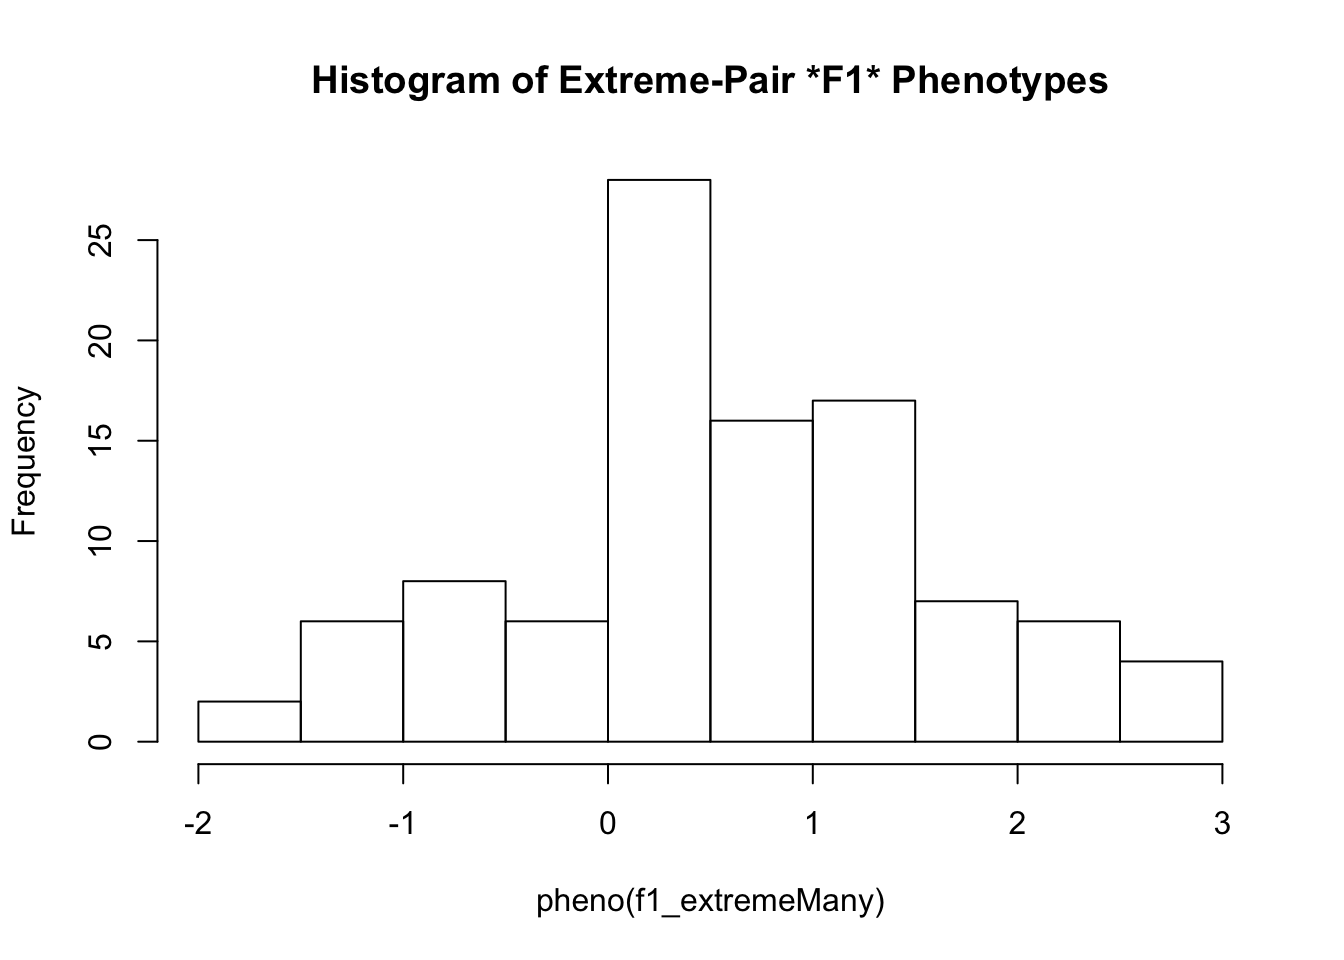
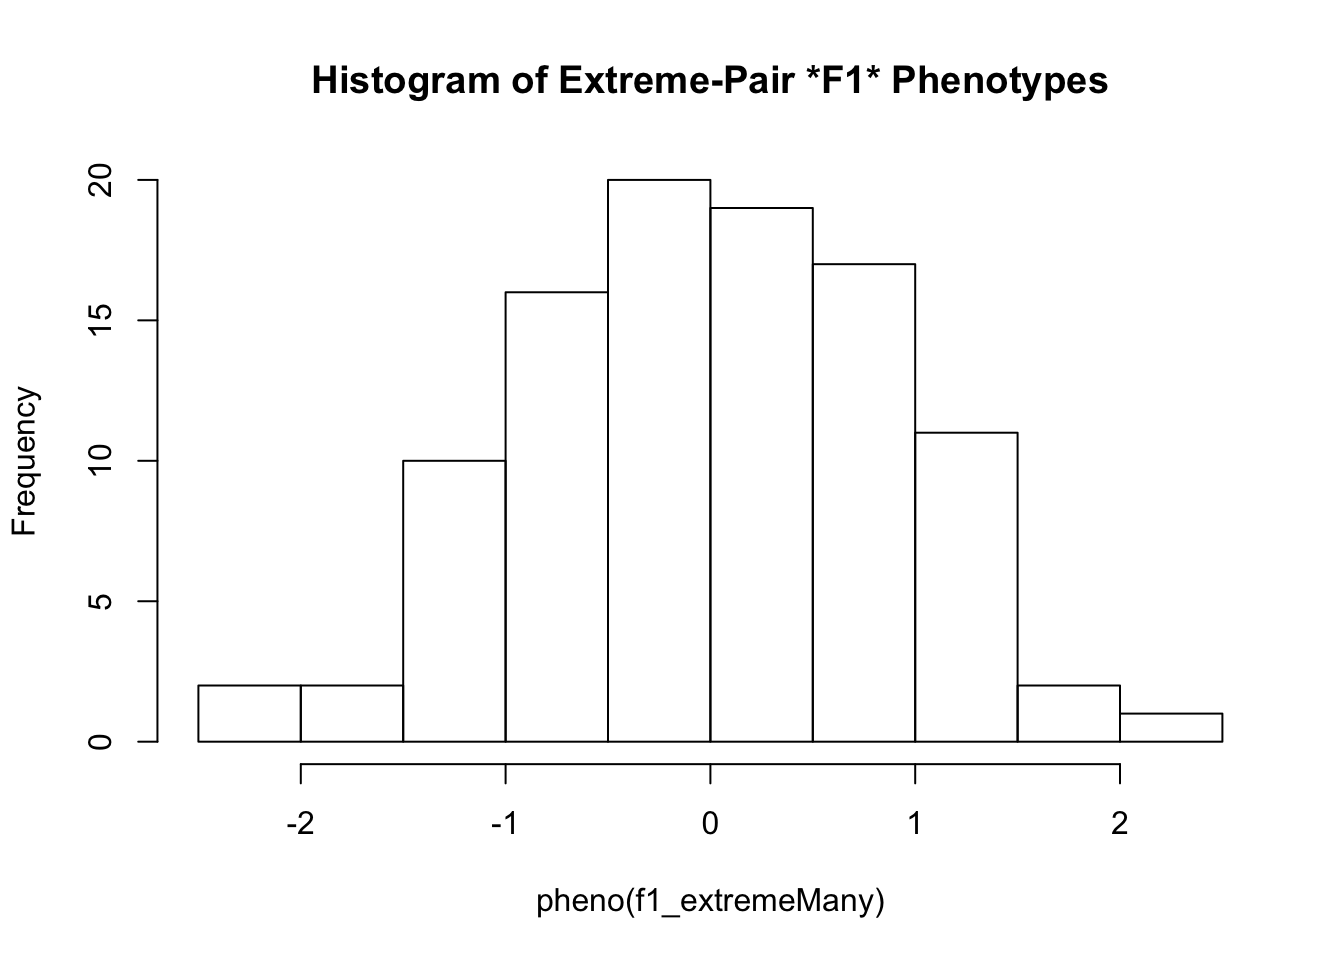
Build site.

diff --git a/docs/Lab1_ProgrammingAlphaSimR.html b/docs/Lab1_ProgrammingAlphaSimR.html
@@ -506,10 +506,10 @@ This reproducible <a href="http://rmarkdown.rstudio.com">R Markdown</a> analysis
 <div class="panel panel-default">
 <div class="panel-heading">
 <p class="panel-title">
-<a data-toggle="collapse" data-parent="#workflowr-checks" href="#strongRepositoryversionstrongahrefhttpsgithubcomjeanlucjLab17170treecb851516e6e309e7563b5e44db501f196ad33163targetblankcb85151a"> <span class="glyphicon glyphicon-ok text-success" aria-hidden="true"></span> <strong>Repository version:</strong> <a href="https://github.com/jeanlucj/Lab1_7170/tree/cb851516e6e309e7563b5e44db501f196ad33163" target="_blank">cb85151</a> </a>
+<a data-toggle="collapse" data-parent="#workflowr-checks" href="#strongRepositoryversionstrongahrefhttpsgithubcomjeanlucjLab17170tree9d95adde55e31a5804fe2f893de73e1dae128329targetblank9d95adda"> <span class="glyphicon glyphicon-ok text-success" aria-hidden="true"></span> <strong>Repository version:</strong> <a href="https://github.com/jeanlucj/Lab1_7170/tree/9d95adde55e31a5804fe2f893de73e1dae128329" target="_blank">9d95add</a> </a>
 </p>
 </div>
[2 lines of base64/hex data omitted]
 <div class="panel-body">
 <p>
 Great! You are using Git for version control. Tracking code development and connecting the code version to the results is critical for reproducibility. The version displayed above was the version of the Git repository at the time these results were generated. <br><br> Note that you need to be careful to ensure that all relevant files for the analysis have been committed to Git prior to generating the results (you can use <code>wflow_publish</code> or <code>wflow_git_commit</code>). workflowr only checks the R Markdown file, but you know if there are other scripts or data files that it depends on. Below is the status of the Git repository when the results were generated:
@@ -558,6 +558,40 @@ Message
 </tr>
 </thead>
 <tbody>
+<tr>
+<td>
+Rmd
+</td>
+<td>
+<a href="https://github.com/jeanlucj/Lab1_7170/blob/9d95adde55e31a5804fe2f893de73e1dae128329/analysis/Lab1_ProgrammingAlphaSimR.Rmd" target="_blank">9d95add</a>
+</td>
+<td>
+jeanlucj
+</td>
+<td>
+2020-01-20
+</td>
+<td>
+Touch ups on the main document
+</td>
+</tr>
+<tr>
+<td>
+html
+</td>
+<td>
+<a href="https://rawcdn.githack.com/jeanlucj/Lab1_7170/602d7eb7d861d46218767fb5b678276a51545c4c/docs/Lab1_ProgrammingAlphaSimR.html" target="_blank">602d7eb</a>
+</td>
+<td>
+jeanlucj
+</td>
+<td>
+2020-01-20
+</td>
+<td>
+Build site.
+</td>
+</tr>
 <tr>
 <td>
 Rmd
@@ -620,7 +654,10 @@ pre code {
 </li>
 </ol>
 <ol style="list-style-type: lower-roman">
-<li>R markdown language. It allows you to mingle script with formatted text, with script outputs. Note that Python and c++ scripts can be incorporated into R markdown.<br />
+<li>R markdown language. It allows you to mingle script with formatted text, with script outputs. Note that Python and c++ scripts can be incorporated into R markdown. Help pages on rmarkdown:<br />
+<a href="https://rstudio.com/wp-content/uploads/2015/02/rmarkdown-cheatsheet.pdf">Cheat Sheet</a><br />
+<a href="https://rmarkdown.rstudio.com/authoring_basics.html">Authoring Basics</a><br />
+<a href="https://annakrystalli.me/rrresearch/05_literate-prog.html">In Literate Programming</a><br />
 </li>
 <li><code>workflowr</code> aims to make it easier to follow a coding workflow that will increase the communicability and reproducibility of your code, and constrain you somewhat to following that workflow. The package sets up a standard directory file structure and populates it with useful initial R markdown (.Rmd) files.<br />
 </li>
@@ -641,7 +678,9 @@ There <a href="https://cran.r-project.org/web/packages/workflowr/vignettes/wflow
 </li>
 </ol>
 <ol style="list-style-type: lower-roman">
-<li>Labs, including this one, will be coupled with homework. One possibility for homework will be to do it in a <code>workflowr</code>-created directory, and hand in that zipped directory, or, if you go further and create a website out of it, just send in the URL…</li>
+<li>Labs, including this one, will be coupled with homework. One possibility for homework will be to do it in a <code>workflowr</code>-created directory, and hand in that zipped directory, or, if you go further and create a webpage out of it, just send in the URL… If all is well, this lab has a webpage here:<br />
+<a href="https://jeanlucj.github.io/Lab1_7170/Lab1_ProgrammingAlphaSimR.html">Lab1 GitHub webpage</a><br />
+I am noting, however, that on github.io, it is not rendering the within-directory-linked figures.</li>
 </ol>
 </div>
 <div id="document-explanation" class="section level2">
@@ -774,7 +813,7 @@ str(founders)</code></pre>
   ..@ father : chr [1:100] &quot;0&quot; &quot;0&quot; &quot;0&quot; &quot;0&quot; ...
   ..@ gender : chr [1:100] &quot;&quot; &quot;&quot; &quot;&quot; &quot;&quot; ...
   ..@ nTraits: int 1
-  ..@ gv     : num [1:100, 1] -0.167 -0.324 -0.159 0.582 0.447 ...
+  ..@ gv     : num [1:100, 1] -0.918 1.018 0.176 0.517 0.25 ...
   ..@ pheno  : num [1:100, 1] NA NA NA NA NA NA NA NA NA NA ...
   ..@ ebv    : num[1:100, 0 ] 
   ..@ gxe    :List of 1
@@ -786,16 +825,16 @@ str(founders)</code></pre>
   ..@ ploidy : int 2
   ..@ nLoci  : int [1:10] 1000 1000 1000 1000 1000 1000 1000 1000 1000 1000
   ..@ geno   :List of 10
-  .. ..$ : raw [1:125, 1:2, 1:100] f8 3b 1d a0 ...
-  .. ..$ : raw [1:125, 1:2, 1:100] d9 25 20 42 ...
-  .. ..$ : raw [1:125, 1:2, 1:100] a4 a9 55 80 ...
-  .. ..$ : raw [1:125, 1:2, 1:100] 0f 31 72 40 ...
-  .. ..$ : raw [1:125, 1:2, 1:100] 40 40 30 d3 ...
-  .. ..$ : raw [1:125, 1:2, 1:100] 36 28 42 83 ...
-  .. ..$ : raw [1:125, 1:2, 1:100] 4d 68 bf f8 ...
-  .. ..$ : raw [1:125, 1:2, 1:100] 6a 26 e8 80 ...
-  .. ..$ : raw [1:125, 1:2, 1:100] 06 5c 8c 5e ...
-  .. ..$ : raw [1:125, 1:2, 1:100] 1d 3a 28 d9 ...
+  .. ..$ : raw [1:125, 1:2, 1:100] 10 c2 38 6a ...
+  .. ..$ : raw [1:125, 1:2, 1:100] 04 92 35 6f ...
+  .. ..$ : raw [1:125, 1:2, 1:100] 78 b4 0b d0 ...
+  .. ..$ : raw [1:125, 1:2, 1:100] 10 0e 25 80 ...
+  .. ..$ : raw [1:125, 1:2, 1:100] 5a e2 61 b9 ...
+  .. ..$ : raw [1:125, 1:2, 1:100] ca 03 64 00 ...
+  .. ..$ : raw [1:125, 1:2, 1:100] 01 19 85 07 ...
+  .. ..$ : raw [1:125, 1:2, 1:100] cd 7b ca 17 ...
+  .. ..$ : raw [1:125, 1:2, 1:100] c0 96 5d 03 ...
+  .. ..$ : raw [1:125, 1:2, 1:100] 10 48 32 1b ...
   .. ..- attr(*, &quot;dim&quot;)= int [1:2] 10 1</code></pre>
 </div>
 <div id="population-information" class="section level2">
@@ -806,7 +845,7 @@ str(founders)</code></pre>
 testID &lt;- test@id
 firstInd &lt;- test[order(testID)[1]]
 print(testID)</code></pre>
-<pre><code>[1] &quot;66&quot; &quot;96&quot; &quot;41&quot;</code></pre>
+<pre><code>[1] &quot;75&quot; &quot;8&quot;  &quot;30&quot;</code></pre>
 <pre class="r"><code>print(firstInd)</code></pre>
 <pre><code>An object of class &quot;Pop&quot; 
 Ploidy: 2 
@@ -815,7 +854,7 @@ Chromosomes: 10
 Loci: 10000 
 Traits: 1 </code></pre>
 <pre class="r"><code>print(firstInd@id)</code></pre>
-<pre><code>[1] &quot;41&quot;</code></pre>
+<pre><code>[1] &quot;30&quot;</code></pre>
 </div>
 <div id="outbreak-of-variation" class="section level2">
 <h2>Outbreak of variation</h2>
@@ -838,7 +877,7 @@ cat(&quot;Expected fraction heterozygous&quot;, 1 / 2^nGenSelf, &quot;\n&quot;,
     &quot;Observed fraction heterozygous&quot;, fracHet, &quot;+/-&quot;, 
     round(2*sqrt(fracHet*(1-fracHet)/(nFounders*nChr*nQTL)), 3), &quot;\n&quot;)</code></pre>
 <pre><code>Expected fraction heterozygous 0.0625 
- Observed fraction heterozygous 0.017 +/- 0.003 </code></pre>
+ Observed fraction heterozygous 0.0162 +/- 0.003 </code></pre>
 <blockquote>
 <p>What was wrong with my reasoning about the Expected fraction heterozygous?</p>
 </blockquote>
@@ -863,15 +902,89 @@ f1_extreme &lt;- makeCross(extremeInd, crossPlan)</code></pre>
 <pre class="r"><code>f2_average &lt;- self(f1_average, nProgeny=100)
 f2_average &lt;- setPheno(f2_average, varE=1)
 cat(&quot;Genotypic variance of F2 between average pair&quot;, round(varG(f2_average), 3))</code></pre>
-<pre><code>Genotypic variance of F2 between average pair 0.686</code></pre>
+<pre><code>Genotypic variance of F2 between average pair 0.436</code></pre>
 <pre class="r"><code>hist(pheno(f2_average), main=&quot;Histogram of Average-Pair F2 Phenotypes&quot;)</code></pre>
 <p><img src="figure/Lab1_ProgrammingAlphaSimR.Rmd/Make%20F2-1.png" width="672" style="display: block; margin: auto;" /></p>
+<p>
+<button type="button" class="btn btn-default btn-xs btn-workflowr btn-workflowr-fig" data-toggle="collapse" data-target="#fig-no-spaces-Make-F2-1">
+Past versions of “Make F2-1.png”
+</button>
+</p>
+<div id="fig-no-spaces-Make-F2-1" class="collapse">
+<div class="table-responsive">
+<table class="table table-condensed table-hover">
+<thead>
+<tr>
+<th>
+Version
+</th>
+<th>
+Author
+</th>
+<th>
+Date
+</th>
+</tr>
+</thead>
+<tbody>
+<tr>
+<td>
+<a href="https://github.com/jeanlucj/Lab1_7170/blob/602d7eb7d861d46218767fb5b678276a51545c4c/docs/figure/Lab1_ProgrammingAlphaSimR.Rmd/Make F2-1.png" target="_blank">602d7eb</a>
+</td>
+<td>
+jeanlucj
+</td>
+<td>
+2020-01-20
+</td>
+</tr>
+</tbody>
+</table>
+</div>
+</div>
 <pre class="r"><code>f2_extreme &lt;- self(f1_extreme, nProgeny=100)
 f2_extreme &lt;- setPheno(f2_extreme, varE=1)
 cat(&quot;Genotypic variance of F2 between extreme pair&quot;, round(varG(f2_extreme), 3))</code></pre>
-<pre><code>Genotypic variance of F2 between extreme pair 0.798</code></pre>
+<pre><code>Genotypic variance of F2 between extreme pair 0.458</code></pre>
 <pre class="r"><code>hist(pheno(f2_extreme), main=&quot;Histogram of Extreme-Pair F2 Phenotypes&quot;)</code></pre>
 <p><img src="figure/Lab1_ProgrammingAlphaSimR.Rmd/Make%20F2-2.png" width="672" style="display: block; margin: auto;" /></p>
+<p>
+<button type="button" class="btn btn-default btn-xs btn-workflowr btn-workflowr-fig" data-toggle="collapse" data-target="#fig-no-spaces-Make-F2-2">
+Past versions of “Make F2-2.png”
+</button>
+</p>
+<div id="fig-no-spaces-Make-F2-2" class="collapse">
+<div class="table-responsive">
+<table class="table table-condensed table-hover">
+<thead>
+<tr>
+<th>
+Version
+</th>
+<th>
+Author
+</th>
+<th>
+Date
+</th>
+</tr>
+</thead>
+<tbody>
+<tr>
+<td>
+<a href="https://github.com/jeanlucj/Lab1_7170/blob/602d7eb7d861d46218767fb5b678276a51545c4c/docs/figure/Lab1_ProgrammingAlphaSimR.Rmd/Make F2-2.png" target="_blank">602d7eb</a>
+</td>
+<td>
+jeanlucj
+</td>
+<td>
+2020-01-20
+</td>
+</tr>
+</tbody>
+</table>
+</div>
+</div>
 </div>
 <div id="observe-f1-phenotypic-variance" class="section level2">
 <h2>Observe F1 phenotypic variance</h2>
@@ -880,9 +993,46 @@ cat(&quot;Genotypic variance of F2 between extreme pair&quot;, round(varG(f2_ext
 f1_extremeMany &lt;- makeCross(extremeInd, crossPlan)
 f1_extremeMany &lt;- setPheno(f1_extremeMany, varE=1)
 cat(&quot;Genotypic variance of F1 between extreme pair&quot;, round(varG(f1_extremeMany), 3))</code></pre>
-<pre><code>Genotypic variance of F1 between extreme pair 0.021</code></pre>
+<pre><code>Genotypic variance of F1 between extreme pair 0.03</code></pre>
 <pre class="r"><code>hist(pheno(f1_extremeMany), main=&quot;Histogram of Extreme-Pair *F1* Phenotypes&quot;)</code></pre>
 <p><img src="figure/Lab1_ProgrammingAlphaSimR.Rmd/Make%20many%20hybrids-1.png" width="672" style="display: block; margin: auto;" /></p>
+<p>
+<button type="button" class="btn btn-default btn-xs btn-workflowr btn-workflowr-fig" data-toggle="collapse" data-target="#fig-no-spaces-Make-many-hybrids-1">
+Past versions of “Make many hybrids-1.png”
+</button>
+</p>
+<div id="fig-no-spaces-Make-many-hybrids-1" class="collapse">
+<div class="table-responsive">
+<table class="table table-condensed table-hover">
+<thead>
+<tr>
+<th>
+Version
+</th>
+<th>
+Author
+</th>
+<th>
+Date
+</th>
+</tr>
+</thead>
+<tbody>
+<tr>
+<td>
+<a href="https://github.com/jeanlucj/Lab1_7170/blob/602d7eb7d861d46218767fb5b678276a51545c4c/docs/figure/Lab1_ProgrammingAlphaSimR.Rmd/Make many hybrids-1.png" target="_blank">602d7eb</a>
+</td>
+<td>
+jeanlucj
+</td>
+<td>
+2020-01-20
+</td>
+</tr>
+</tbody>
+</table>
+</div>
+</div>
 <blockquote>
 <p>What conditions will tend to make the outbreak of variation under the “average” scenario similar to the “extreme” scenario?</p>
 </blockquote>
